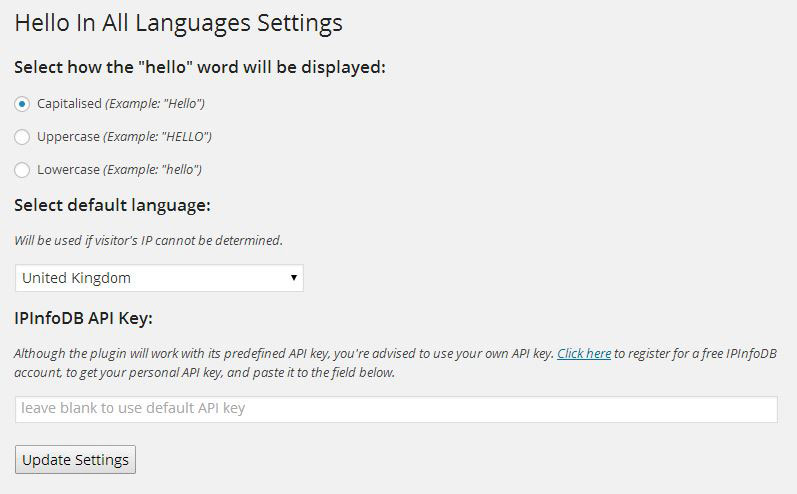
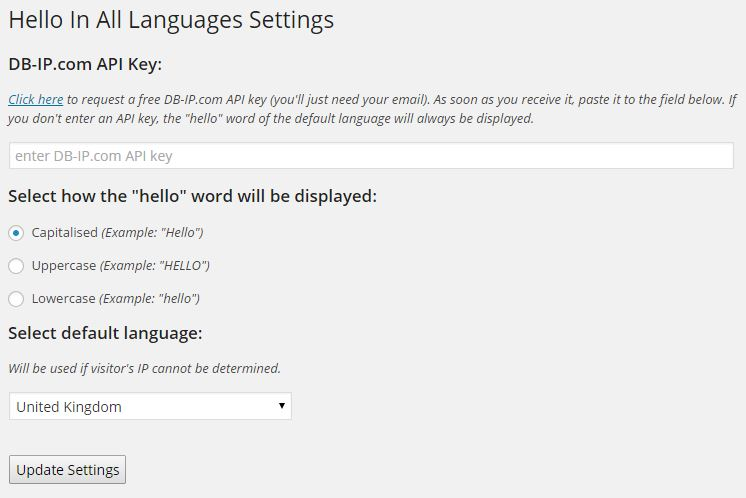
switching from using IPInfoDB to DB-IP.com; updating readme files & screenshot #3

diff --git a/hello-in-all-languages.php b/hello-in-all-languages.php
@@ -2,12 +2,12 @@
 /*
 Plugin Name: Hello In All Languages
 Plugin URI: http://stathisg.com/projects/hello-in-all-languages/
-Version: 1.0.5
+Version: 1.0.6
 Author: Stathis Goudoulakis
 Author URI: http://stathisg.com/
 Description: Hello In All Languages displays a "hello" word translated to the official language of the country the visitor's IP belongs to.
 
-Copyright 2010-2014 Stathis Goudoulakis (me@stathisg.com)
+Copyright 2010-2015 Stathis Goudoulakis (me@stathisg.com)
 
 This program is free software; you can redistribute it and/or modify
 it under the terms of the GNU General Public License as published by
@@ -32,7 +32,6 @@ if (!class_exists("HelloInAllLanguages"))
         private $tableName;
         private $greetingQuery;
         private static $adminOptionsName = "HelloInAllLanguagesAdminOptions";
[1 lines of base64/hex data omitted]
 
         public function __construct()
         {
@@ -69,7 +68,7 @@ if (!class_exists("HelloInAllLanguages"))
         {
             $adminOptions = array('display' => 'default',
                 'default_country_code' => 'UK',
-                'api_key' => $this->defaultAPIkey);
+                'api_key' => '');
             $options = get_option(self::$adminOptionsName);
             if(!empty($options))
             {
@@ -358,20 +357,17 @@ if (!class_exists("HelloInAllLanguages"))
             $options = $this->getAdminOptions();
 
             $ip = $_SERVER['REMOTE_ADDR'];
-            $url = "http://api.ipinfodb.com/v3/ip-country/?key={$options['api_key']}&ip=$ip&format=xml";
-            $buffer = '';
+            $url = "http://api.db-ip.com/addrinfo?addr=$ip&api_key={$options['api_key']}";
+            $json = '';
 
             $response = wp_remote_get($url);
-            $buffer = wp_remote_retrieve_body($response);
+            $json = wp_remote_retrieve_body($response);
 
-            try
-            {
-                $xml = new SimpleXMLElement($buffer);
-                $countryCode = $xml -> countryCode;
-            }
-            catch(Exception $e)
-            {
+            $data = json_decode($json);
+            if(empty($data) || isset($data->error)) {
                 $countryCode = '';
+            } else {
+                $countryCode = $data->country;
             }
 
             if(empty($countryCode))
@@ -415,13 +411,9 @@ if (!class_exists("HelloInAllLanguages"))
                     $options['default_country_code'] = $_POST['language'];
                 }
 
-                if (isset($_POST['api-key']) && !empty($_POST['api-key']))
+                if (isset($_POST['api-key']))
                 {
                     $options['api_key'] = $_POST['api-key'];
-                }
-                else
-                {
-                    $options['api_key'] = $this->defaultAPIkey;
                 }
 
                 $this->updateAdminOptions($options)
@@ -438,6 +430,13 @@ if (!class_exists("HelloInAllLanguages"))
                 <div class="icon32" id="icon-options-general"><br/></div>
                 <h2>Hello In All Languages Settings</h2>
                 <form method="post" action="<?php echo $_SERVER["REQUEST_URI"]; ?>">
+                    <h3>DB-IP.com API Key:</h3>
+                    <p>
+                        <span class="description"><a href="https://db-ip.com/api/free" target="_blank">Click here</a> to request a free DB-IP.com API key (you'll just need your email). As soon as you receive it, paste it to the field below. If you don't enter an API key, the "hello" word of the default language will always be displayed.</span>
+                    </p>
+                    <p>
+                        <input name="api-key" type="text" value="<?php echo $options['api_key']; ?>" class="large-text" placeholder="enter DB-IP.com API key" />
+                    </p>
                     <h3>Select how the "hello" word will be displayed:</h3>
                     <p>
                         <input type="radio" id="default-hello" name="display" value="default" <?php if ($options['display'] == "default") { _e('checked="checked"', "HelloInAllLanguages"); }?> />
@@ -473,13 +472,6 @@ if (!class_exists("HelloInAllLanguages"))
                             ?>
                         </select>
                     </p>
-                    <h3>IPInfoDB API Key:</h3>
-                    <p>
-                        <span class="description">Although the plugin will work with its predefined API key, you're advised to use your own API key. <a href="http://ipinfodb.com/register.php" target="_blank">Click here</a> to register for a free IPInfoDB account, to get your personal API key, and paste it to the field below.</span>
-                    </p>
-                    <p>
-                        <input name="api-key" type="text" value="<?php if($this->defaultAPIkey !== $options['api_key']) { echo $options['api_key']; } ?>" class="large-text" placeholder="leave blank to use default API key" />
-                    </p>
                     <div class="submit">
                         <input type="submit" name="update_HelloInAllLanguagesSettings" value="<?php _e('Update Settings', 'HelloInAllLanguages') ?>" />
                     </div>
@@ -490,7 +482,7 @@ if (!class_exists("HelloInAllLanguages"))
                 <ul>
                     <li>To ensure that all the hello translations will be displayed correctly, please use <strong>UTF-8</strong> charset.</li>
                     <li>Please be aware that the plugin may not work properly if you are testing your blog in a local server.</li>
-                    <li>To determine the visitor's physical location based on his IP, the free geolocation API provided by <a href="http://ipinfodb.com/" title="IPInfoDB">IPInfoDB</a> is used.</li>
+                    <li>To determine the visitor's physical location based on his IP, the geolocation API provided by <a href="https://db-ip.com/" title="DB-IP.com">DB-IP.com</a> is being used.</li>
                 </ul>
                 <h2>Support &amp; feedback</h2>
                 <p>For questions, issues, or feature requests, you can either <a href="http://burnmind.com/contact">contact me</a>, or post them either in the <a href="http://wordpress.org/tags/hello-in-all-languages">WordPress Forum</a> (make sure to add the tag "hello-in-all-languages"), or in <a href="http://burnmind.com/freebies/hello-in-all-languages-wordpress-plugin">this</a> blog post.</p>
@@ -504,7 +496,8 @@ if (!class_exists("HelloInAllLanguages"))
                 </ul>
                 <h2>Other links</h2>
                 <ul>
-                    <li>&raquo; <a href="http://burnmind.com">burnmind.com</a></li>
+                    <li>&raquo; <a href="http://burnmind.com">my blog</a></li>
+                    <li>&raquo; <a href="http://inequilibrium.co">my newsletter</a></li>
                     <li>&raquo; <a href="http://twitter.com/stathisg">@stathisg</a></li>
                     <li>&raquo; <a href="http://wordpress.org/extend/plugins/how-old-am-i/">How Old Am I</a> WordPress plugin</li>
                 </ul>

diff --git a/README.md b/README.md
@@ -12,9 +12,9 @@
 ## How to configure
 
 1. Open the plugin settings page (Settings -> Hello In All Languages).
-2. Select how the word will be displayed (capitalised, uppercase, or lowercase).
-3. Select the default language (will be used if the visitor's IP cannot be determined).
-4. Optional, but recommended: Sign up for a free IPInfoDB API key and paste it in the appropriate field.
+2. Sign up for a [free DB-IP.com API key](https://db-ip.com/api/free) and paste it in the appropriate field.
+3. Select how the word will be displayed (capitalised, uppercase, or lowercase).
+4. Select the default language (will be used if the visitor's IP cannot be determined).
 
 ## How to use
 
@@ -28,7 +28,7 @@ For questions, issues, or feature requests, you can either [contact me](http://b
 
 * To ensure that all the hello translations will be displayed correctly, please use UTF-8 charset.
 * Please be aware that the plugin may not work properly if you are testing your blog in a local server.
-* To determine the visitor's physical location based on his IP, the geolocation API provided by [IPInfoDB](http://ipinfodb.com/) is used.
+* To determine the visitor's physical location based on his IP, the geolocation API provided by [DB-IP.com](https://db-ip.com/) is being used.
 
 ## Screenshots
 
